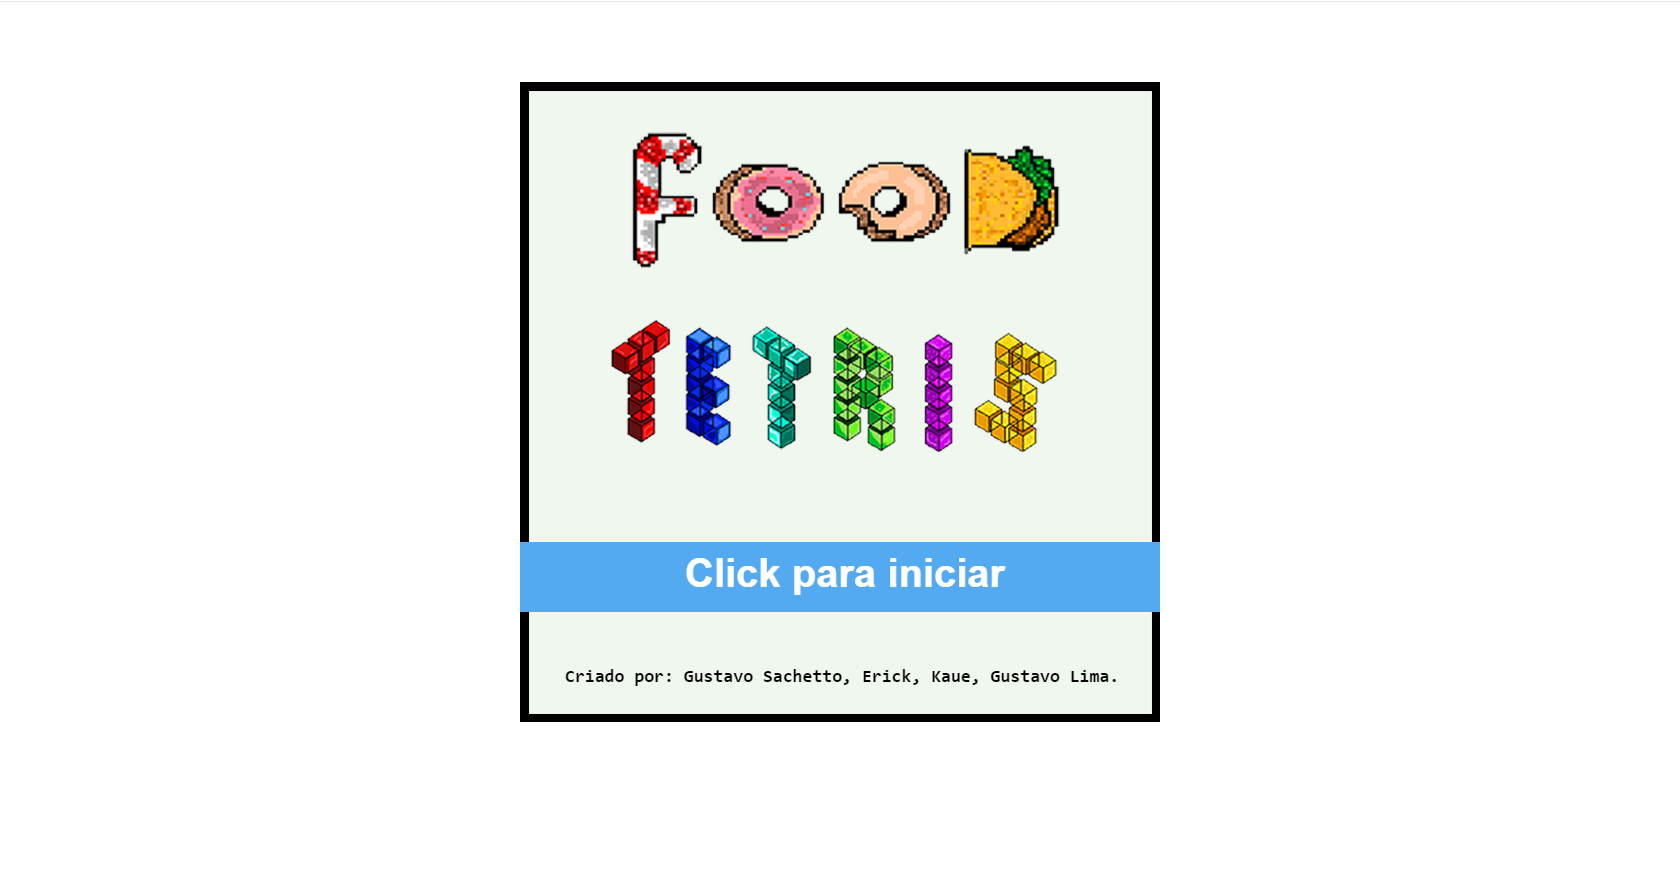
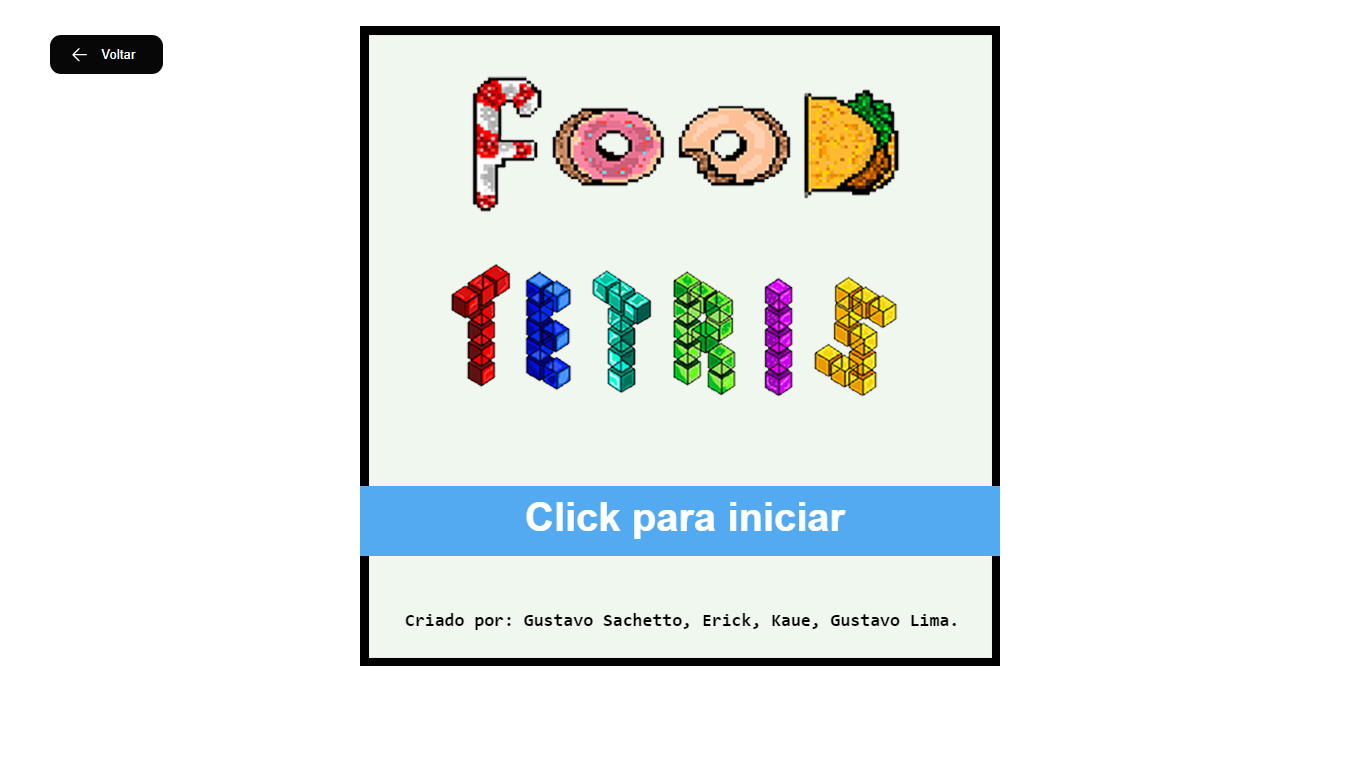
falta arrumar o button do mcqueen e do naruto
coiso

Changed region(s): [[0.2471, 0.0312, 0.7412, 0.875], [0.0309, 0.0312, 0.1235, 0.0938]]

diff --git a/view/css/button-sair.css b/view/css/button-sair.css
@@ -87,17 +87,17 @@
 
 /* BOTAO FOOD */
 .button-voltar-food {
-  background-color: #fd000000;
-  color: #00000000;
+  background-color: rgb(7, 7, 7);
+  color: white;
   width: 8.5em;
   height: 2.9em;
   border: #ffffff00 0.2em solid;
   border-radius: 11px;
   text-align: right;
   transition: all 0.6s ease;
-  margin: 80px;  
+  margin: 50px;  
   margin-right: 90%;
-  margin-top: 10%;
+  margin-top: 2%;
   position: absolute;
   left: 0;
   cursor: pointer;
@@ -106,8 +106,8 @@
   }
   
   .button-voltar-food:hover {
-    background-color: #e43d3d;
-    color: rgb(255, 255, 255)
+    background-color: #ffffff;
+    color: rgb(0, 0, 0)
   }
   
   .button-voltar-food svg {
@@ -125,5 +125,47 @@
     transform: rotate(180deg);
 
   }
+
+  /* BUTTO MCQUEEN */
   
+ .button-voltar-mcqueen {
+  background-color: #ffffff00;
+    color: #fff;
+    width: 8.5em;
+    height: 2.9em;
+    border: #ffffff 0.2em solid;
+    border-radius: 11px;
+    text-align: right;
+    transition: all 0.6s ease;
+    margin: 30px;  
+    margin-right: 90%;
+    margin-top: 10%;
+    position: absolute;
+    left: 0;
+    cursor: pointer;
+    
+    
+  }
+  
+  .button-voltar-mcqueen:hover {
+    background-color: #ffffff;
+    color: #000
+  }
+  
+  .button-voltar-mcqueen svg {
+    width: 1.6em;
+    margin: -0.2em 0.8em 1em;
+    position: absolute;
+    display: flex;
+    transition: all 0.6s ease;
+    transform: rotate(180deg);
+
+  }
+  
+  .button-voltar-mcqueen:hover svg {
+    transform: translateX(5px);
+    transform: rotate(180deg);
+
+  }
+
   

diff --git a/view/css/style.css b/view/css/style.css
@@ -73,7 +73,7 @@ aside {
     display: flex;
     flex-direction: column;
     max-width: 400px;
-    max-height: 600px;
+    max-height: 560px;
     width: 100%;
     height: 100%;
 
@@ -90,14 +90,14 @@ aside {
 }
 
 .scroll::-webkit-scrollbar-track {
-    background: white;
+    background: none;
     /* color of the tracking area */
     border-radius: 20px;
 }
 
 .scroll::-webkit-scrollbar-thumb {
 
-    background-color: #209CCE;
+    background-color: none;
     /* color of the scroll thumb */
     border-radius: 20px;
     /* roundness of the scroll thumb */
@@ -153,8 +153,9 @@ aside {
 }
 
 .gradiente {
+    
     height: 15em;
-    margin-top: -210px;
+    margin-top: -300px;
     margin-right: 40px;
     background: rgb(0, 0, 0);
     pointer-events: none;
@@ -413,6 +414,8 @@ footer a {
 }
 
 .modalDialog {
+    font-weight: 500;
+    font-size: 20px;
     position: fixed;
     font-family: Arial, Helvetica, sans-serif;
     text-align: center;
@@ -433,9 +436,9 @@ footer a {
     pointer-events: auto;
   }
   .modalDialog > div {
-    width: 400px;
+    width: 500px;
     position: relative;
-    margin: 10% auto;
+    margin: 20% auto;
     padding: 5px 20px 13px 20px;
     border-radius: 10px;
     background: #fff;
@@ -449,7 +452,7 @@ footer a {
     right: -12px;
     text-align: center;
     top: -10px;
-    width: 24px;
+    width: 34px;
     text-decoration: none;
     font-weight: bold;
     -webkit-border-radius: 12px;

diff --git a/view/pages/jogos/tetris-mcqueen/index.html b/view/pages/jogos/tetris-mcqueen/index.html
@@ -14,19 +14,22 @@
     
     <!-- HOME SCREEN -->
     <div id="home" class="full-screen float with-bg">
-        <a href="../../../../index.html"><button class="button-voltar-mcqueen">
+        <div class="linkvoltar">
+            <a href="../../../../index.html"><button class="button-voltar-mcqueen">
 
   
-            <svg xmlns="http://www.w3.org/2000/svg" fill="none" viewBox="0 0 24 24" stroke-width="1.5" stroke="currentColor" class="w-6 h-6 rotate">
-              <path stroke-linecap="round" stroke-linejoin="round" d="M4.5 12h15m0 0l-6.75-6.75M19.5 12l-6.75 6.75"></path>
-            </svg>
-          
-            
-            <div class="text-voltar">
-              Voltar
-            </div>
-          
-          </button></a>
+                <svg xmlns="http://www.w3.org/2000/svg" fill="none" viewBox="0 0 24 24" stroke-width="1.5" stroke="currentColor" class="w-6 h-6 rotate">
+                  <path stroke-linecap="round" stroke-linejoin="round" d="M4.5 12h15m0 0l-6.75-6.75M19.5 12l-6.75 6.75"></path>
+                </svg>
+              
+                
+                <div class="text-voltar">
+                  Voltar
+                </div>
+              
+            </button></a>
+        </div>
+        
         
         <div class="logo">
             <span class="red">K</span>

diff --git a/index.html b/index.html
@@ -16,17 +16,18 @@
         <div class="img-altura"><img src="./view/img/logo.png" alt="Logo do projeto"></div>
         
         <div class="btn-primeiraPage">
-            <button class="btn-jogar button-85" >Start!</button>
+            <button class="btn-jogar button-85" >Comece!</button>
             <a href="#openModal" class="button-85">Saiba mais!</a>
         </div>
 
         <div id="openModal" class="modalDialog">
         <div>
             <a href="#close" title="Close" class="close">X</a>
-            <h2>Sobre</h2>
-            <p>Olá jogador(a)! Este é o Projeto Tetrificados "anônimos" idealizado pelos estudantes do 2º Informática, 
-            propõe uma imersão divertida no multiverso do Tetris e da programação, aqui você encontrará a implementação 
+            <h2>Bem vindo jogador(a)!</h2>
+            <p> Este é o Projeto Tetrificados "anônimos", idealizado pelos estudantes do 2º Informática. </br>
+            Propõe uma imersão divertida no multiverso do Tetris e da programação. Aqui você encontrará a implementação 
             de várias versões personalizadas do clássico jogo Tetris.</p>
+            <h3>Boa sorte!</h3>
         </div>
         </div>
         

diff --git a/view/pages/jogos/tetris-troll/tretris.html b/view/pages/jogos/tetris-troll/tretris.html
@@ -4,6 +4,8 @@
 <head>
     <meta charset='UTF-8'>
     <link rel="stylesheet" href="../../../css/button-sair.css">
+    
+
     <style>
 
         .textinho {
@@ -46,6 +48,20 @@
 </head>
 
 <body style="background-image: url('https://c.wallhere.com/photos/50/6d/vaporwave_retrowave_Retrowave_purple_background_sunset_cityscape_night-1349229.jpg!d');">
+    <a href="../../../../index.html"><button class="button-voltar">
+
+  
+        <svg xmlns="http://www.w3.org/2000/svg" fill="none" viewBox="0 0 24 24" stroke-width="1.5" stroke="currentColor" class="w-6 h-6 rotate">
+          <path stroke-linecap="round" stroke-linejoin="round" d="M4.5 12h15m0 0l-6.75-6.75M19.5 12l-6.75 6.75"></path>
+        </svg>
+      
+        
+        <div class="text-voltar">
+          Voltar
+        </div>
+      
+      </button></a>
+    
     <canvas></canvas>
     <audio controls autoplay loop>
         <source src="dilla.mp3" type="audio/mpeg">

diff --git a/view/pages/jogos/tetris-naruto/index.html b/view/pages/jogos/tetris-naruto/index.html
@@ -1,10 +1,10 @@
 <!DOCTYPE html>
 <html>
 <head>
-  <title>Basic Tetris HTML Game</title>
+  <title>Tetris Naruto</title>
   <link rel="stylesheet" href="../../../css/button-sair.css">
   <meta charset="UTF-8">
-  
+  <link rel="stylesheet" href="../../../css/button-sair.css">
     <!-- Estilos CSS -->
 
   <style>
@@ -94,6 +94,19 @@
   </style>
 </head>
 <body>
+  <a href="../../../../index.html"><button class="button-voltar">
+
+  
+    <svg xmlns="http://www.w3.org/2000/svg" fill="none" viewBox="0 0 24 24" stroke-width="1.5" stroke="currentColor" class="w-6 h-6 rotate">
+      <path stroke-linecap="round" stroke-linejoin="round" d="M4.5 12h15m0 0l-6.75-6.75M19.5 12l-6.75 6.75"></path>
+    </svg>
+  
+    
+    <div class="text-voltar">
+      Voltar
+    </div>
+  
+  </button></a>
 <!-- Canvas para o jogo -->
 
 <canvas width="320" height="640" id="game"></canvas>

diff --git a/view/pages/jogos/tetris-mario-bros/projeto.html b/view/pages/jogos/tetris-mario-bros/projeto.html
@@ -4,6 +4,7 @@
 <head>
     <link rel="stylesheet" href="../../../css/button-sair.css">
     <meta charset='UTF-8'>
+    <link rel="stylesheet" href="../../../css/button-sair.css">
     <style>
         canvas {
             position: absolute;
@@ -17,6 +18,19 @@
 </head>
 
 <body background="img/fundo Mario.png" >
+    <a href="../../../../index.html"><button class="button-voltar-food">
+
+  
+        <svg xmlns="http://www.w3.org/2000/svg" fill="none" viewBox="0 0 24 24" stroke-width="1.5" stroke="currentColor" class="w-6 h-6 rotate">
+          <path stroke-linecap="round" stroke-linejoin="round" d="M4.5 12h15m0 0l-6.75-6.75M19.5 12l-6.75 6.75"></path>
+        </svg>
+      
+        
+        <div class="text-voltar">
+          Voltar
+        </div>
+      
+      </button></a>
     <canvas></canvas>
     <script>
         'use strict';

diff --git a/view/pages/jogos/tetris-mario/Index.html b/view/pages/jogos/tetris-mario/Index.html
@@ -3,12 +3,13 @@
 <head>
 	<meta charset="utf-8">
 	<meta name="viewport" content="width=device-width, initial-scale=1">
-	<title>Tela Players</title>
+	<title>Tetris Mario World</title>
 	<link rel="stylesheet" type="text/css" href="style.css">
 	<link rel="preconnect" href="https://fonts.googleapis.com">
 	<link rel="preconnect" href="https://fonts.gstatic.com" crossorigin>
 	<link href="https://fonts.googleapis.com/css2?family=Open+Sans:ital,wght@1,300&display=swap" rel="stylesheet">
 	<link rel="stylesheet" href="../../../css/button-sair.css">
+	<link rel="shortcut icon" href="imgs/icon-marioworld.png" type="image/x-icon">
 </head>
 
 <body id="teste">

diff --git a/view/pages/jogos/tetris-mario/tetrisF.html b/view/pages/jogos/tetris-mario/tetrisF.html
@@ -3,9 +3,9 @@
 
 <head>
     <meta charset='UTF-8'>
-
+    <title>Tetris Mario World | Mario</title>
     <link rel="stylesheet" type="text/css" href="style.css">
-    
+    <link rel="shortcut icon" href="imgs/icon-marioworld.png" type="image/x-icon">
     <style>    
 
         canvas {
@@ -38,7 +38,7 @@
    <div class="btn">
 
    
-    <button class="btnF"><a href="tetrisD.html" class="text"> Voltar </a></button>
+    <button class="btnF"><a href="Index.html" class="text"> Voltar </a></button>
 
 
 

diff --git a/view/pages/jogos/tetris-bobesponja/index.html b/view/pages/jogos/tetris-bobesponja/index.html
@@ -5,8 +5,9 @@
 <head>
     <meta charset="utf-8">
     <meta name="viewport" content="width=device-width, initial-scale=1">
-    <title>PAGINA INICIAL</title>
+    <title>Tetris Bob Esponja</title>
     <link rel="stylesheet" href="../../../css/button-sair.css">
+    <link rel="shortcut icon" href="img/icon-bob.png" type="image/x-icon">
 </head>
 <style type="text/css">
 

diff --git a/view/pages/jogos/tetris-mario/tetrisM.html b/view/pages/jogos/tetris-mario/tetrisM.html
@@ -2,9 +2,10 @@
 <html lang='en'>
 
 <head>
+    <title>Tetris Mario World | Yoshi</title>
     <meta charset='UTF-8'>
     <link rel="stylesheet" type="text/css" href="style.css">
-
+    <link rel="shortcut icon" href="imgs/icon-marioworld.png" type="image/x-icon">
     <style>    
         canvas {
             position: absolute;

diff --git a/view/pages/jogos/tetris-onepiece/tetris4.html b/view/pages/jogos/tetris-onepiece/tetris4.html
@@ -3,7 +3,8 @@
 <head>
   <meta charset="utf-8">
   <meta name="viewport" content="width=device-width, initial-scale=1">
-  <title>Tela 2 Tetris</title>
+  <link rel="shortcut icon" href="img/icon-onepiece.png" type="image/x-icon">
+  <title>Tetris One Piece | Zoro</title>
   <style>
     html, body {
       height: 100%;
